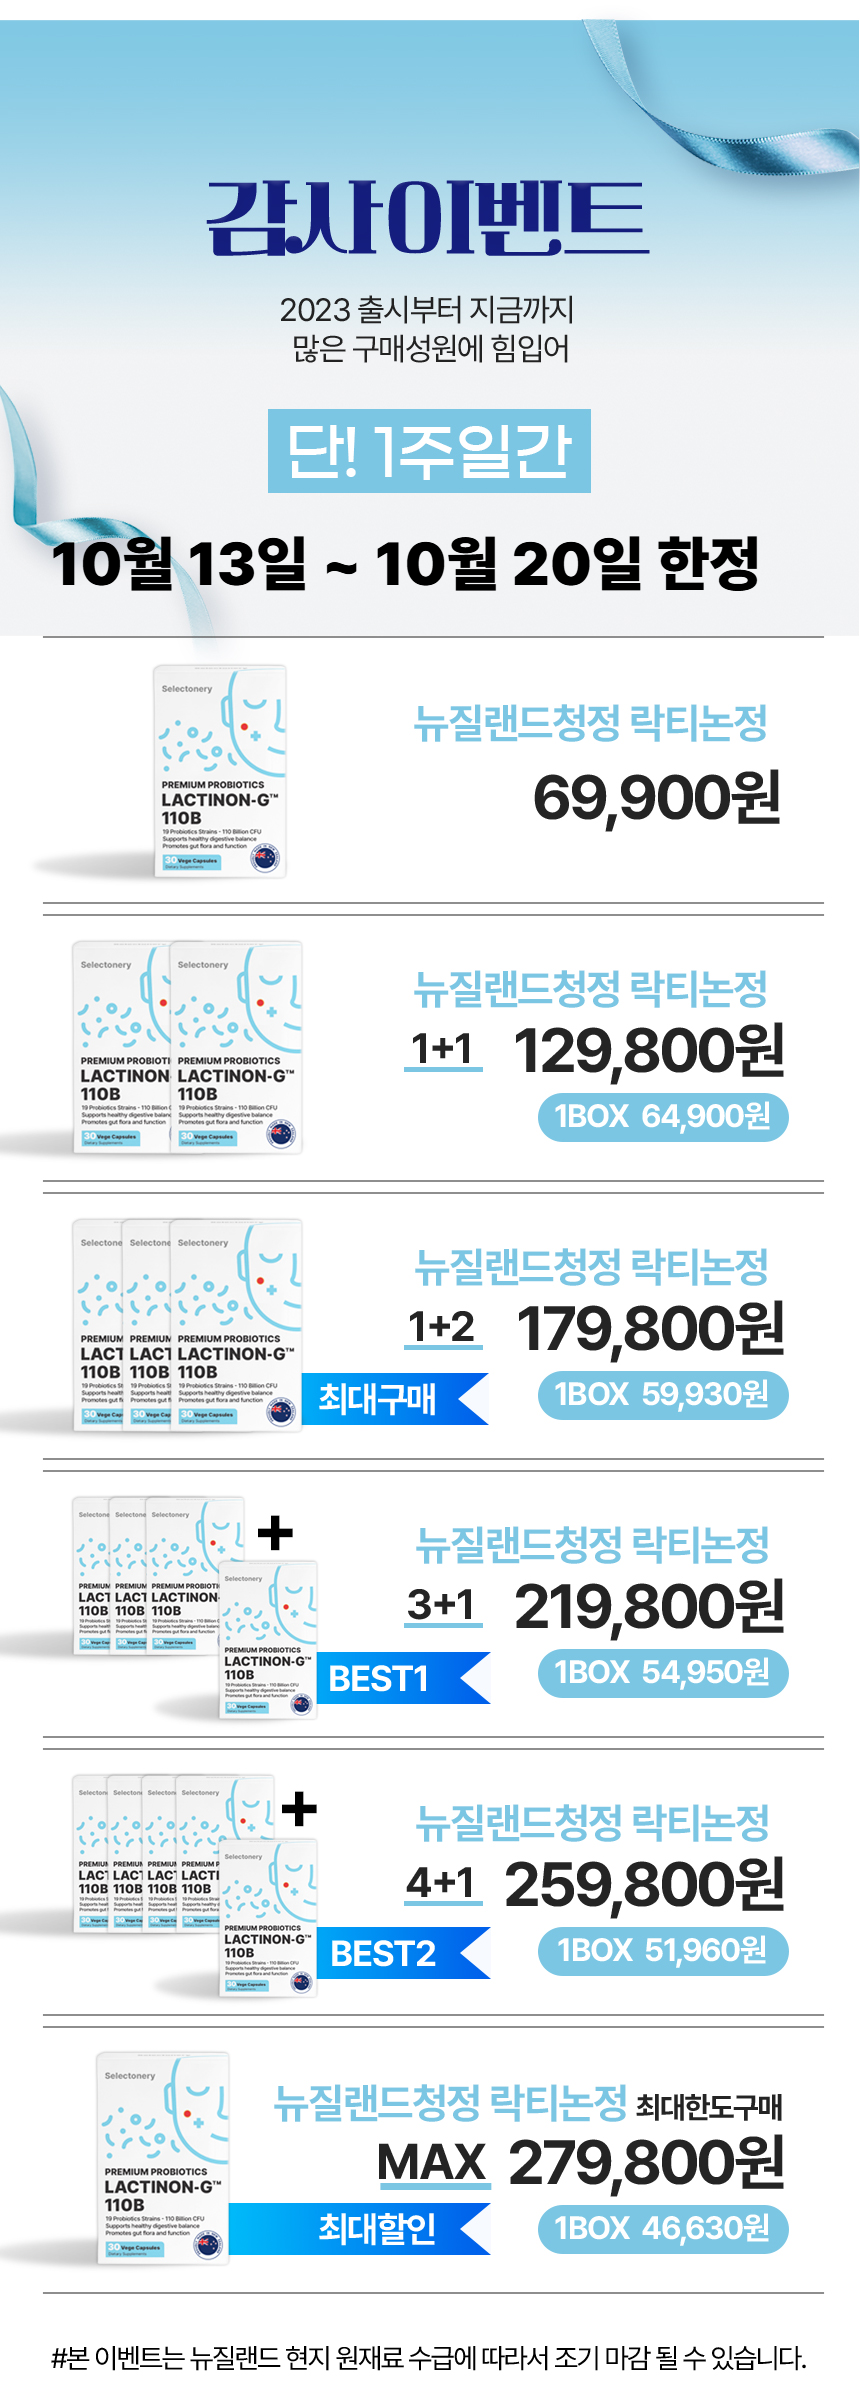
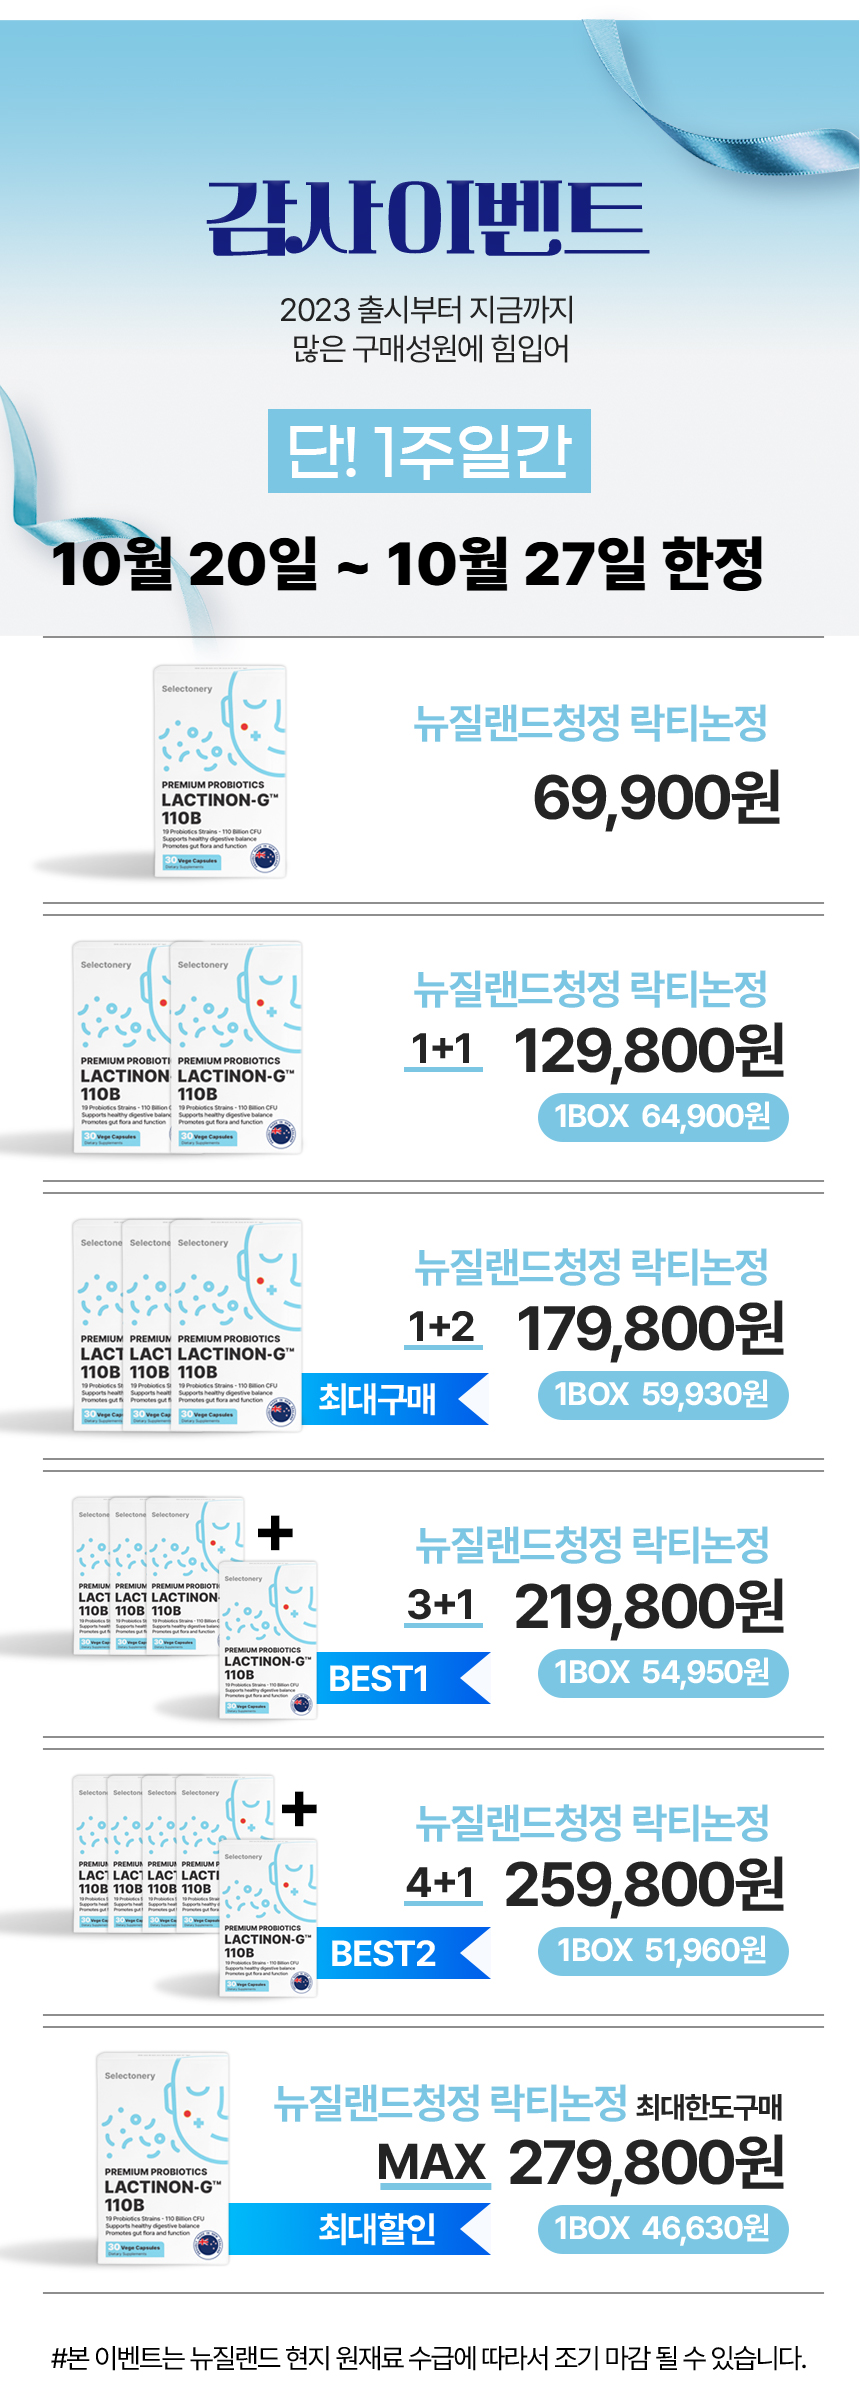
update 2026-10-21 00:01

Changed region(s): [[0.4233, 0.2188, 0.907, 0.25], [0.2116, 0.2188, 0.393, 0.25]]

diff --git a/common.html b/common.html
@@ -8,9 +8,9 @@
   .wrap img{display:block;width:100%;height:auto;border:0}
 </style></head>
 <body><div class="wrap">
-    <img src="images/과각리페어수%20자사몰.png?v=1791903678" alt="과각리페어수 자사몰" loading="lazy">
-    <img src="images/과각리페어수%20쿠팡.png?v=1791903678" alt="과각리페어수 쿠팡" loading="lazy">
-    <img src="images/락티논정%20자사몰.png?v=1791903678" alt="락티논정 자사몰" loading="lazy">
-    <img src="images/락티논정%20쿠팡.png?v=1791903678" alt="락티논정 쿠팡" loading="lazy">
-    <img src="images/엔조린Q.png?v=1791903678" alt="엔조린Q" loading="lazy">
+    <img src="images/과각리페어수%20자사몰.png?v=1792508443" alt="과각리페어수 자사몰" loading="lazy">
+    <img src="images/과각리페어수%20쿠팡.png?v=1792508443" alt="과각리페어수 쿠팡" loading="lazy">
+    <img src="images/락티논정%20자사몰.png?v=1792508443" alt="락티논정 자사몰" loading="lazy">
+    <img src="images/락티논정%20쿠팡.png?v=1792508443" alt="락티논정 쿠팡" loading="lazy">
+    <img src="images/엔조린Q.png?v=1792508443" alt="엔조린Q" loading="lazy">
 </div></body></html>
